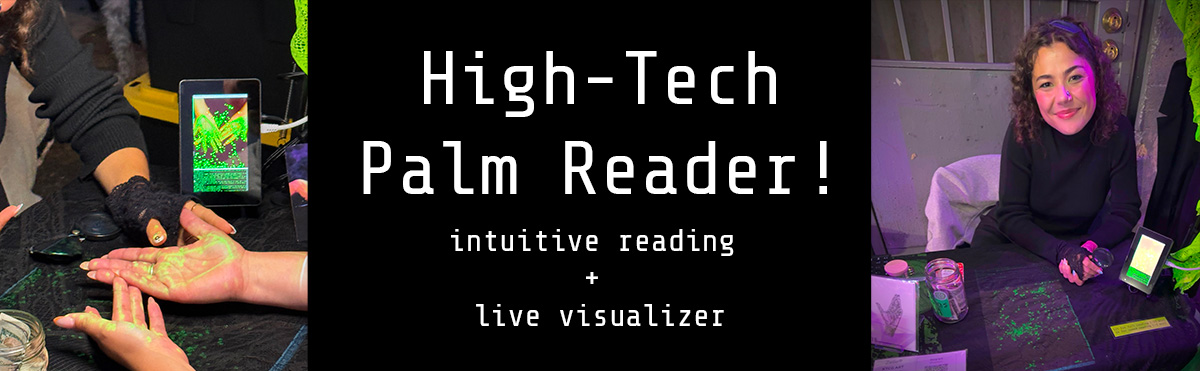
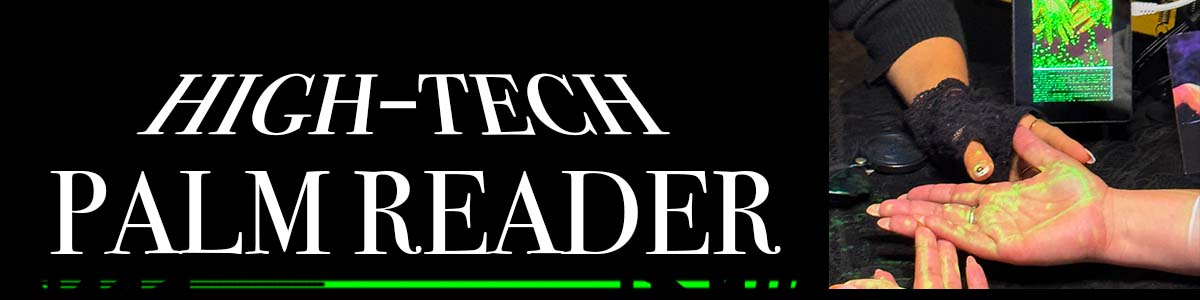
larger images for better mobile display, new bannger, some tweaks to layout

diff --git a/booking.html b/booking.html
@@ -13,44 +13,47 @@ layout: null
         <div class="bm-subtitle" id="land">
         <div class="captioned-image" style="min-width: 200pt; margin-top:0">
             <img alt="readings banner" src="/assets/readings/readings_banner.jpg" />
+
+        </div>             
         </div>
-            <!-- <h1 style="color:#c9ccc7;">HIGH-TECH PALM READINGS!</h1> -->
-        </div>
+        <!-- <div class="bm-subtitle">
+        <p style="color: white; padding: 1%; font-size: 1em;">TECH-AUGMENTED INTUITIVE READINGS</p>          
+        </div> -->
         <div class="bm-acts" id="materials">
-            <div class="bm-act-holder">
+            <div class="bm-act-holder" style="aspect-ratio: 9/16;">
                 <div class="captioned-image" style="min-width: 200pt; margin-top:0;">
-                    <img alt="event palm reader" src="/assets/readings/action_shots.jpg" />
+                    <img alt="event palm reader" src="/assets/readings/example03.jpg" />
                 </div>
                 <div class="captioned-image" style="min-width: 200pt; margin-top:0;">
-                    <img alt="event palm reader" src="/assets/readings/event_poses.jpg" />
+                    <img alt="event palm reader" src="/assets/readings/example01.jpg" />
+                </div>
+                <div class="captioned-image" style="min-width: 200pt; margin-top:0;">
+                    <img alt="event palm reader" src="/assets/readings/example02.jpg" />
                 </div>
             </div>
             <div class="bm-act-holder">
                 <div class="captioned-image" style="min-width: 200pt; margin-top:0;">
                     <iframe src="https://www.youtube.com/embed/GCB8I-FlqTA" style="width: 100%;aspect-ratio: 9/16;" frameborder="0" allow="autoplay; fullscreen; picture-in-picture" allowfullscreen>
                 </div>
-                <!-- <iframe src="https://www.youtube.com/embed/fVQ6cWhvhsE" style="width: 100%;aspect-ratio: 9/16;" frameborder="0" allow="autoplay; fullscreen; picture-in-picture" allowfullscreen> -->
                 </iframe>
             </div>
-            <!-- <div class="bm-act-holder" id="form">
-                <div id="formkeep-embed" data-formkeep-url="https://formkeep.com/p/4eb4eb45c2769d4aae876bb80d662ef0?embedded=1"></div>
-            </div> -->
         </div>
     </div>
     <div class="bm-subtitle">
         <p style="text-align:center; color:white">View additional images and videos on <a href="https://www.instagram.com/bugmuthur/" style="color: lime !important">Instagram</a>. Upcoming markets: 7/8 <a href="https://www.instagram.com/technonightmarket" style="color: lime !important">Techno Night Market</a>.</p>
     </div>
-    <div class="bm-subtitle">
-        <p style="text-align:center; color:white"> High-tech palm readings combine live, immersive art with intuitive entertainment. Indigo Coiyle reads professionally in a variety of environments (corporate, market, nightlife). She custom-built her live visualizer. Contact via <a href="mailto:indigo@ktcg.art" style="color: lime !important">indigo@ktcg.art</a>.</p>
-    </div>
+    <!-- <div class="bm-subtitle">
+        <p style="text-align:center; color:white">High-tech palm readings combine live, immersive art with intuitive entertainment. Indigo Coiyle reads clients in a variety of environments (company, market, nightlife). She began studying palmistry in 2023 and custom-built her live visualizer. Contact via <a href="mailto:indigo@ktcg.art" style="color: lime !important">indigo@ktcg.art</a>.</p>
+    </div> -->
 
         <div class="bm-subtitle">
         <!-- <h1>high tech medium</h1><h1>+</h1><h1>magic moving drawings</h1>  -->
-        <h1>Promo Photos</h1>
+        <!-- <h1>Promo Materials</h1> -->
         </div>
             <div class="captioned-image" style="min-width: 200pt; margin-top:0; max-width: 600px;">
                 <img alt="event palm reader" src="/assets/readings/headshot.jpg" />
                 <p style="text-align:center; color:white">High-res (300 DPI 1600x1920) version available upon request</p>
+                <p style="text-align:center; color:white">High-tech palm readings combine live, immersive art with intuitive entertainment. Indigo Coiyle reads clients in a variety of environments (company, market, nightlife). She began studying palmistry in 2023 and custom-built her live visualizer. Contact via <a href="mailto:indigo@ktcg.art" style="color: lime !important">indigo@ktcg.art</a>.</p>
             </div>
             <div class="captioned-image" style="min-width: 200pt; margin-top:0; max-width: 600px;">
                 <img alt="event palm reader" src="/assets/readings/promo_photo01.jpg" />
@@ -67,6 +70,7 @@ layout: null
     <div id="formkeep-embed" data-formkeep-url="https://formkeep.com/p/4eb4eb45c2769d4aae876bb80d662ef0?embedded=1"></div>
     <!-- <h3>Story Box Store is under construction! Will be open soon!</h3> -->
   </div>
+</div>
 
 <script type="text/javascript" src="https://pym.nprapps.org/pym.v1.min.js"></script>
 <script type="text/javascript" src="https://cdn.formkeep.com/formkeep-embed.js"></script>

diff --git a/sideshow.html b/sideshow.html
@@ -30,15 +30,6 @@ layout: null
   <img alt="tiktok" src="/assets/icons/tt.png" />
   </a> -->
   </div>
-  <div class="bm-page-section-2">
-        <div class="bm-misc" id="shop">
-      <div class="bm-buttons">
-          <a class="bm-button" href="shop.html#land">
-            <p>SHOP</p>
-          </a> 
-      </div>
-    </div>
-  </div>
     <div>
     <div class="bm-act-holder" id="welcome">
         <div class="bm-section">
@@ -136,7 +127,7 @@ layout: null
             </div>
             <div class="bm-readings-container">
                 <div class="bm-readings-top-section">
-                    <p>12.6.2025 | ONE NIGHT ONLY<br>Bugmuthur finally achieves corporeality! A-live demonstration of cybernetic channeling!</p>
+                    <p>12.6.2025 | ONE NIGHT ONLY<br>Bugmuthur finally achieves corporeality! A-live demonstration of Indigo's cybernetic channeling!</p>
                 </div>
                 <div style="padding:0px">
                     <iframe src="https://www.youtube.com/embed/hTVkrvMCeVM?si=tEp1U41pi-qXO6HP" style="width: 100%;aspect-ratio: 16/9;" frameborder="0" allow="autoplay; fullscreen; picture-in-picture" allowfullscreen>
@@ -176,6 +167,20 @@ layout: null
         </div>
 
     </div>
+      <div class="bm-page-section-2">
+        <div class="bm-misc" id="shop">
+      <div class="bm-buttons">
+          <a class="bm-button" href="shop.html#land">
+            <p>SHOP</p>
+          </a> 
+      </div>
+      <div class="bm-buttons">
+          <a class="bm-button" href="booking.html#land">
+            <p>BOOK INDIGO</p>
+          </a> 
+      </div>
+    </div>
+  </div>
   </div>
 </div>
 </div>
